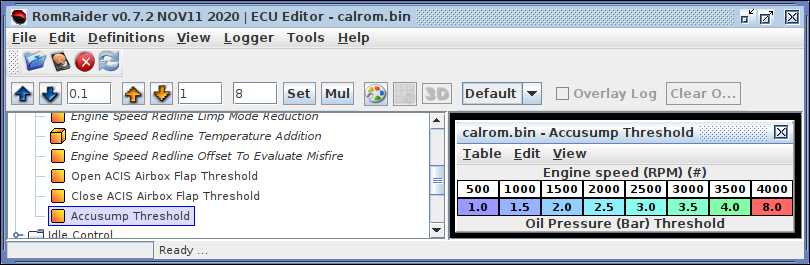
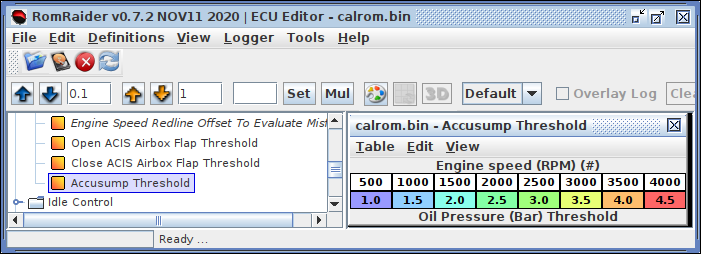
Change in accusump table

diff --git a/accusump/build.py b/accusump/build.py
@@ -49,7 +49,7 @@ out_file = "calrom.bin"
 table_offsets = (0x3CA0, 0x3CB0)
 table_default = bytes([
 	0x0A, 0x14, 0x1E, 0x28, 0x32, 0x3C, 0x46, 0x50, # RPM
-	0x2E, 0x38, 0x43, 0x4D, 0x57, 0x61, 0x6C, 0xBD  # Pressure
+	0x2E, 0x38, 0x43, 0x4D, 0x57, 0x61, 0x6C, 0x76  # Pressure
 ])
 
 # Build the new calibration with the accusump default table

diff --git a/README.md b/README.md
@@ -45,7 +45,9 @@ Under [CC-NC-SA].
 
 [CC-NC-SA]: https://creativecommons.org/licenses/by-nc-sa/4.0/
 
-## Factory Method [pre 2008]
+## Factory Method 
+
+### Pre 2008
 
 The T4 and the T4e ECU on the Lotus with white dashboard (Instrument Cluster)
 has a bootloader split into 2 parts: Stage 1 and 2.
@@ -61,13 +63,22 @@ If you want to flash using that method, try the [Daft_LotusT4_OBD].
 
 [Daft_LotusT4_OBD]: https://github.com/Obeisance/Daft_LotusT4_OBD
 
-## Factory Method [post 2008]
+### Post 2008
 
 The T4e of the black dashboard cars has another bootloader which does the
 reprogramming with CAN-Bus (500 kbit/s).
 
 This bootloader accepts an encrypted .CRP file and can update the calibration,
 the software or the EEPROM. Only writing with CAN-Bus, no reading...
+
+### CRP Files
+
+ECU Updates from Lotus are .CRP files. Somes are available on the [VCIS].
+Most of them are included in the Lotus TechCentre or Lotus Scan 3.
+
+The structure of the .CRP files has completely change in 2008.
+
+[VCIS]: https://vsic.lotuscars.com/
 
 ## Live tuning access [2006-2008]
 
@@ -80,15 +91,6 @@ possible to re-enable it, with a BDM access or a modified .CRP file.
 
 My little hack is not guaranteed to work on all software versions of the
 ECU but when it works it's very reliable (A good CAN-Bus adapter is mandatory).
-
-## About CRP Files
-
-ECU Updates from Lotus are .CRP files. Somes are available on the [VCIS].
-Most of them are included in the Lotus TechCentre or Lotus Scan 3.
-
-The structure of the .CRP files has completely change in 2008.
-
-[VCIS]: https://vsic.lotuscars.com/
 
 ## Prerequisite
 
